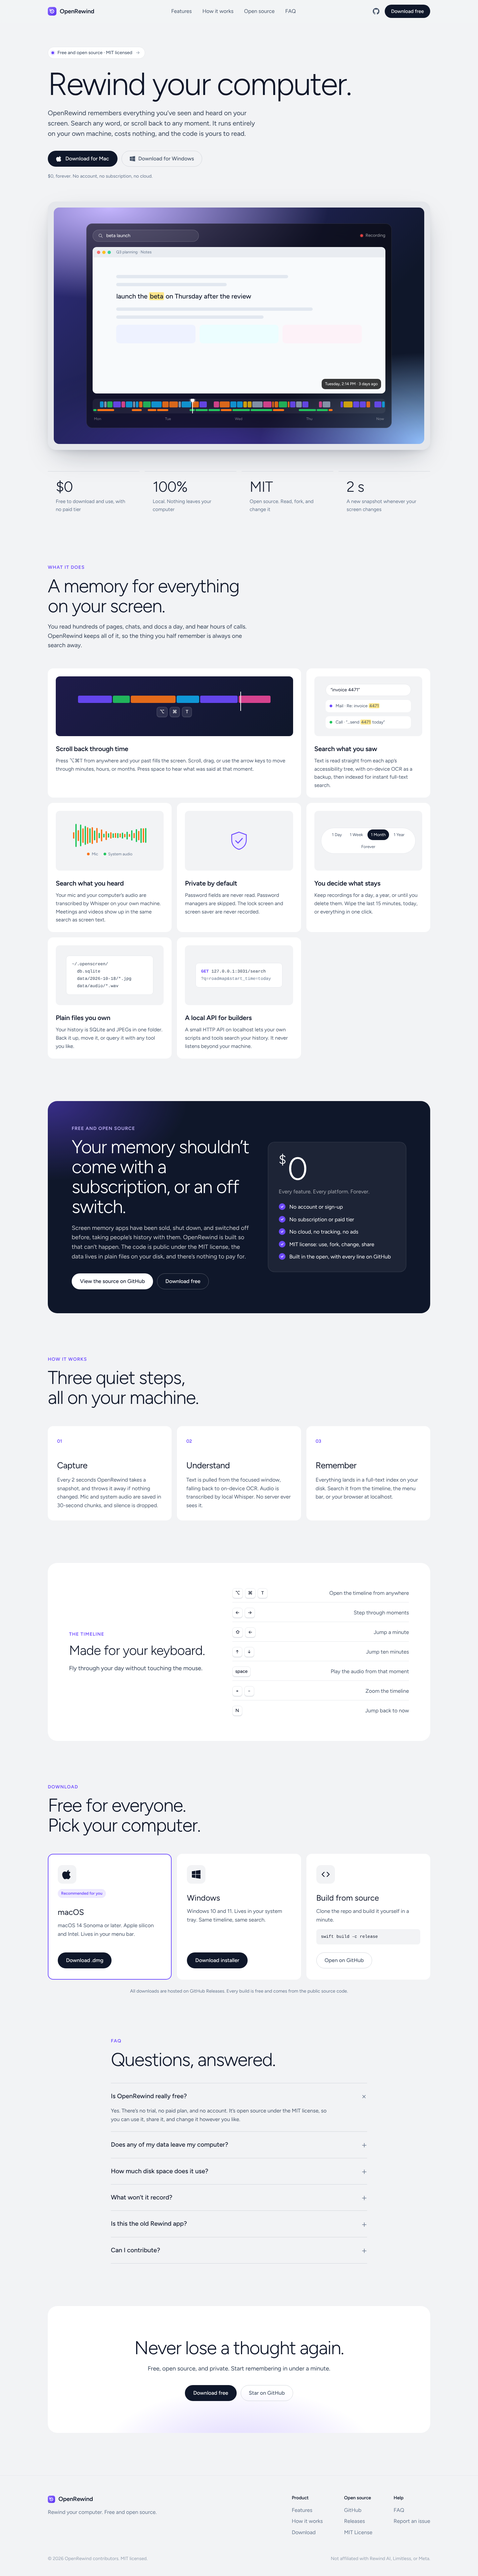
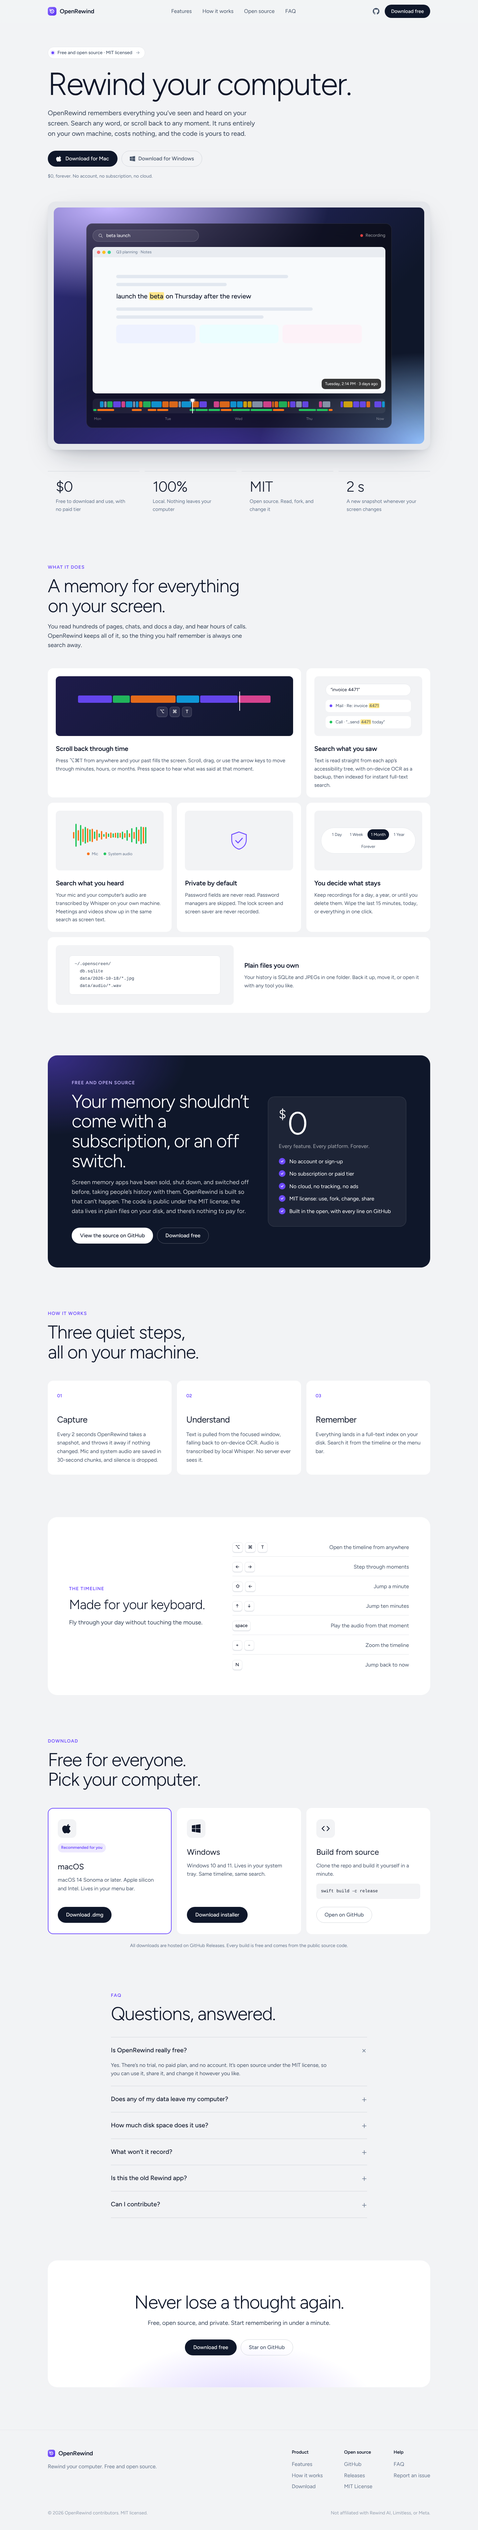
Drop the local API card from the website
Claude-Session: https://claude.ai/code/session_0195vt8TH4GbSDCS4BFMenmT

diff --git a/website/styles.css b/website/styles.css
@@ -217,6 +217,8 @@ mark { background: #fde68a; color: inherit; border-radius: 3px; padding: 0 2px; 
 .card h3 { margin: 22px 0 8px; font-size: 20px; font-weight: 600; letter-spacing: -.2px; color: var(--ink); }
 .card p { margin: 0; color: var(--graphite); font-size: 15.5px; }
 .card-lg { grid-column: span 2; }
+.card-wide { grid-column: 1 / -1; display: grid; grid-template-columns: 1fr 1fr; gap: 32px; align-items: center; }
+.card-wide h3 { margin-top: 0; }
 .card-art {
   position: relative; height: 180px; border-radius: 12px; background: var(--plaster);
   display: flex; flex-direction: column; align-items: center; justify-content: center; gap: 12px;
@@ -254,13 +256,11 @@ kbd {
 .seg span { font-size: 12.5px; padding: 6px 10px; border-radius: 9999px; color: var(--graphite); }
 .seg .on { background: var(--ink); color: #fff; }
 
-.art-files code, .art-api code {
+.art-files code {
   font: 13px/1.7 ui-monospace, "SF Mono", Menlo, Consolas, monospace;
   color: var(--slate); background: #fff; border: 1px solid var(--mist);
   border-radius: 10px; padding: 14px 16px; width: 92%;
 }
-.art-api .m { color: var(--violet); font-weight: 600; }
-.art-api .d { color: var(--pewter); }
 
 /* Open source block */
 .open {
@@ -375,6 +375,8 @@ kbd {
   .wrap { padding: 0 16px; }
   .grid, .steps, .dl-grid { grid-template-columns: 1fr; }
   .card-lg { grid-column: auto; }
+  .card-wide { grid-template-columns: 1fr; gap: 0; }
+  .card-wide h3 { margin-top: 22px; }
   .hero { padding-top: 48px; }
   .lede { font-size: 18px; }
   .section { padding-top: 88px; }

diff --git a/website/index.html b/website/index.html
@@ -155,21 +155,16 @@
         <p>Keep recordings for a day, a year, or until you delete them. Wipe the last 15 minutes, today, or everything in one click.</p>
       </article>
 
-      <article class="card reveal">
+      <article class="card card-wide reveal">
         <div class="card-art art-files" aria-hidden="true">
           <code>~/.openscreen/<br>&nbsp;&nbsp;db.sqlite<br>&nbsp;&nbsp;data/2026-10-18/*.jpg<br>&nbsp;&nbsp;data/audio/*.wav</code>
         </div>
-        <h3>Plain files you own</h3>
-        <p>Your history is SQLite and JPEGs in one folder. Back it up, move it, or query it with any tool you like.</p>
+        <div>
+          <h3>Plain files you own</h3>
+          <p>Your history is SQLite and JPEGs in one folder. Back it up, move it, or open it with any tool you like.</p>
+        </div>
       </article>
 
-      <article class="card reveal">
-        <div class="card-art art-api" aria-hidden="true">
-          <code><span class="m">GET</span> 127.0.0.1:3031/search<br><span class="d">?q=roadmap&amp;start_time=today</span></code>
-        </div>
-        <h3>A local API for builders</h3>
-        <p>A small HTTP API on localhost lets your own scripts and tools search your history. It never listens beyond your machine.</p>
-      </article>
     </div>
   </section>
 
